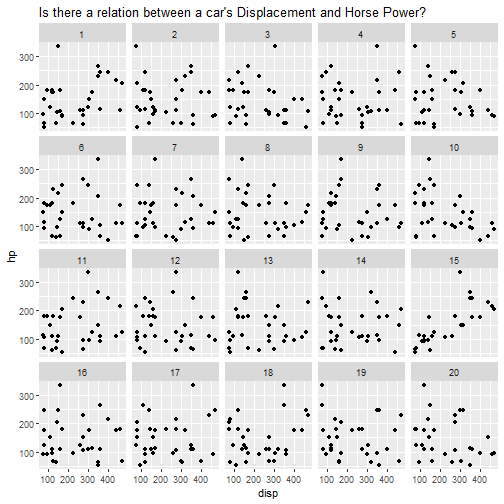
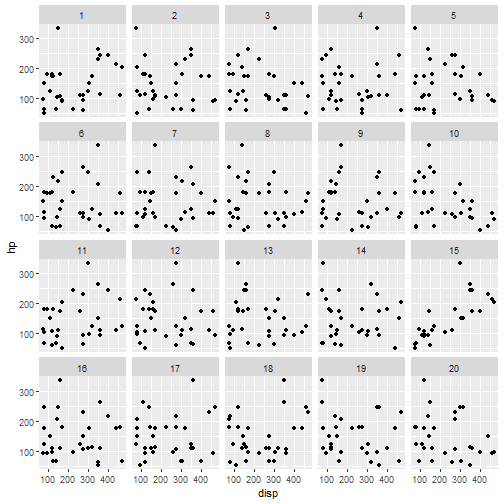
Adds beeswarm example

diff --git a/deep_visual_inference.html b/deep_visual_inference.html
@@ -585,7 +585,7 @@ body {
 }
 
 .black_center .reveal .state-background {
-  background-color: white;
+  background-color: black;
 } 
 
 .back_image .reveal h1,
@@ -609,7 +609,7 @@ body {
 .black_center .reveal h2,
 .black_center .reveal p {
   margin-top: 25%;
-  color: black;
+  color: white;
 }
 
 .black_image .reveal .state-background {
@@ -901,7 +901,9 @@ hljs.initHighlightingOnLoad();
 <section data-transition="linear" data-transition-speed="default">
 <h3>Like so...</h3>
 <div class="mediaInline slideContent" >
[1 lines of base64/hex data omitted]
+<h3>Is there a relation between a car&#39;s Displacement and its Horse Power?</h3>
+
[1 lines of base64/hex data omitted]
 
 <div class="footer">bit.ly/jsm2019</div>
 
@@ -911,7 +913,11 @@ hljs.initHighlightingOnLoad();
 <section data-transition="linear" data-transition-speed="default">
 <h3>And so...</h3>
 <div class="mediaInline slideContent" >
[1 lines of base64/hex data omitted]
+<h3>Is there a relation between Gender and Answer?</h3>
+
+<h4>(Is it rude to bring a baby on plane?)</h4>
+
[1 lines of base64/hex data omitted]
 
 <div class="footer">bit.ly/jsm2019</div>
 
@@ -920,8 +926,20 @@ hljs.initHighlightingOnLoad();
 </section>
 <section data-transition="linear" data-transition-speed="default">
 <h3>And so...</h3>
-<div class="slideContent" >
+<div class="mediaInline slideContent" >
+<h3>Is there a relation between an actor&#39;s gender and no. of roles since his/her character ended?</h3>
+
[1 lines of base64/hex data omitted]
+
 <div class="footer">bit.ly/jsm2019</div>
+
+</div>
+
+</section>
+<section data-state="black_center" data-transition="linear" data-transition-speed="default">
+
+<div class="slideContent noTitle" >
+<h1>But wait, did you just say &ldquo;judge a plot&rdquo;, as in &ldquo;classify an image&rdquo;, and the year &gt;= 2012?</h1>
 
 </div>
 

diff --git a/deep_visual_inference.md b/deep_visual_inference.md
@@ -43,6 +43,8 @@ incremental: true
 Like so...
 ========================================================
 
+### Is there a relation between a car's Displacement and its Horse Power?
+
 ![plot of chunk Lineup-example1](deep_visual_inference-figure/Lineup-example1-1.png)
 
 <div class="footer">bit.ly/jsm2019</div>
@@ -50,12 +52,19 @@ Like so...
 And so...
 ========================================================
 
+### Is there a relation between Gender and Answer?
+#### (Is it rude to bring a baby on plane?)
+
 ![plot of chunk Lineup-example2](deep_visual_inference-figure/Lineup-example2-1.png)
 
 <div class="footer">bit.ly/jsm2019</div>
 
 And so...
 ========================================================
+
+### Is there a relation between an actor's gender and no. of roles since his/her character ended?
+
+![plot of chunk Lineup-example3](deep_visual_inference-figure/Lineup-example3-1.png)
 
 <div class="footer">bit.ly/jsm2019</div>
 
